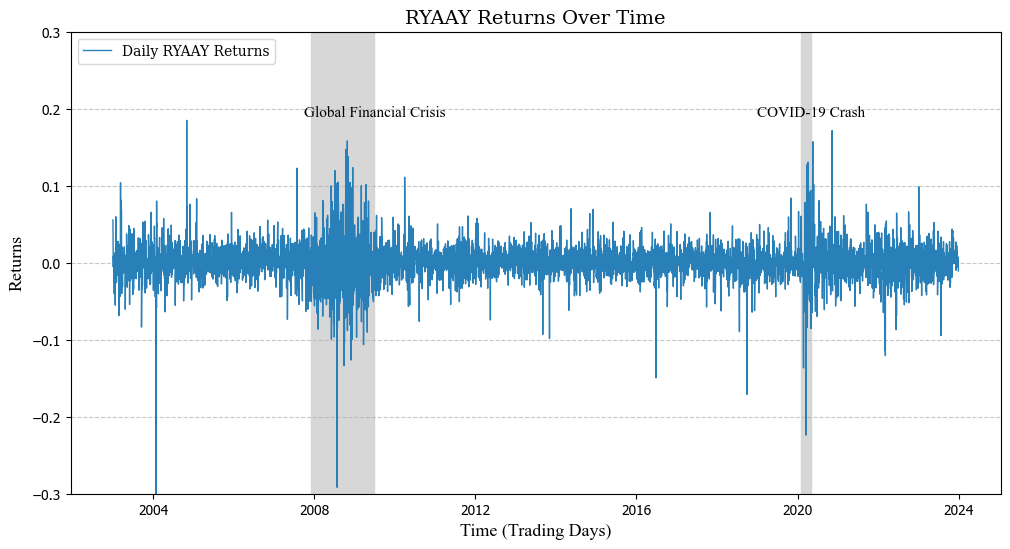
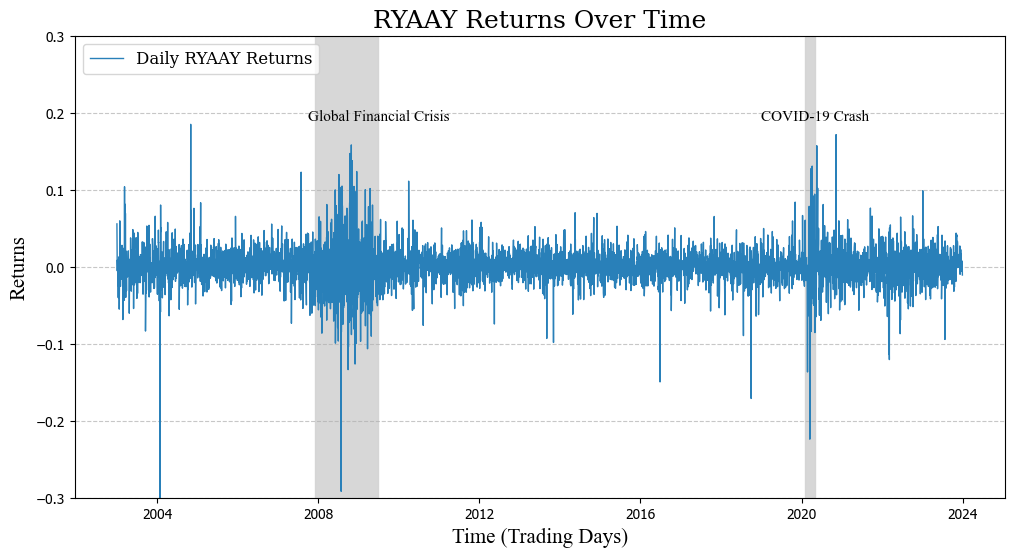
sorted news sources

diff --git a/RYAAY_distribution.py b/RYAAY_distribution.py
@@ -145,9 +145,9 @@ mean_returns = np.mean(returns)
 std_returns = np.std(returns)
 
 # Print the returns returns stats
-get_distribution_data(returns)
-get_descriptive_stats(returns)
-get_descriptive_stats(np.abs(returns))
+#get_distribution_data(returns)
+#get_descriptive_stats(returns)
+#get_descriptive_stats(np.abs(returns))
 
 ###################
 # Show Distribution
@@ -199,11 +199,11 @@ for start_date, end_date in get_crash_dates_intervals():
 plt.text(get_crash_dates_intervals()[0][1], plt.ylim()[1] * 0.9, 'Global Financial Crisis', horizontalalignment='center', fontname='Times New Roman', fontsize=11)
 plt.text(get_crash_dates_intervals()[1][1], plt.ylim()[1] * 0.9, 'COVID-19 Crash', horizontalalignment='center', fontname='Times New Roman', fontsize=11)
 
-plt.xlabel('Time (Trading Days)', fontsize=13, fontname='Times New Roman')
-plt.ylabel('Returns', fontsize=13, fontname='Times New Roman')
+plt.xlabel('Time (Trading Days)', fontsize=15, fontname='Times New Roman')
+plt.ylabel('Returns', fontsize=15, fontname='Times New Roman')
 plt.ylim(-0.3, 0.3)
-plt.title('RYAAY Returns Over Time', fontsize=14, fontfamily='serif')
-plt.legend(fontsize=10, loc='upper left', prop={'family': 'serif', 'size': 10})
+plt.title('RYAAY Returns Over Time', fontsize=18, fontfamily='serif')
+plt.legend(loc='upper left', prop={'family': 'serif', 'size': 12})
 plt.grid(axis='y', linestyle='--', alpha=0.7)
 plt.tick_params(axis='both', which='major', labelsize=10)
 #plt.show()

diff --git a/Get_Sources_data.py b/Get_Sources_data.py
@@ -17,8 +17,12 @@ file_path = 'Sources_Data.csv'
 data = load_csv(file_path)
 
 for row in data:
-    print(f"textbf{{{row[0]}}} ", end='', flush=True)
+    print(f"\\textbf{{{row[0]}}} ", end='', flush=True)
     for field in row[1:]:
         print(f" & {field}", end='', flush=True)
     print('\\\\')
 #print(f"\\textbf{{{source_name}}} & {count}\\\\")
+
+for row in data:
+    print(f"\\textbf{{{row[0]}}} ", end='', flush=True)
+    print(f" & {row[7]}\\\\")
